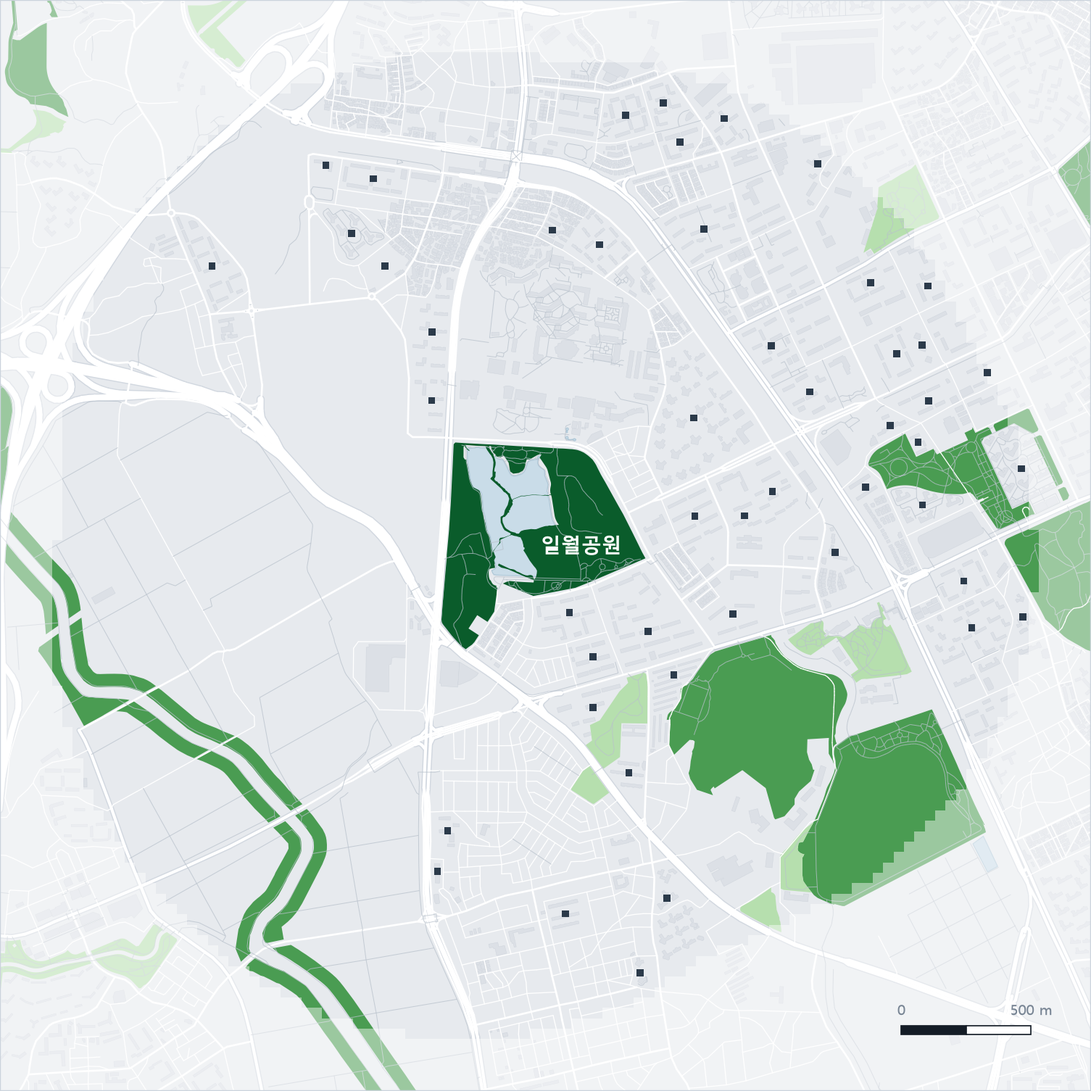
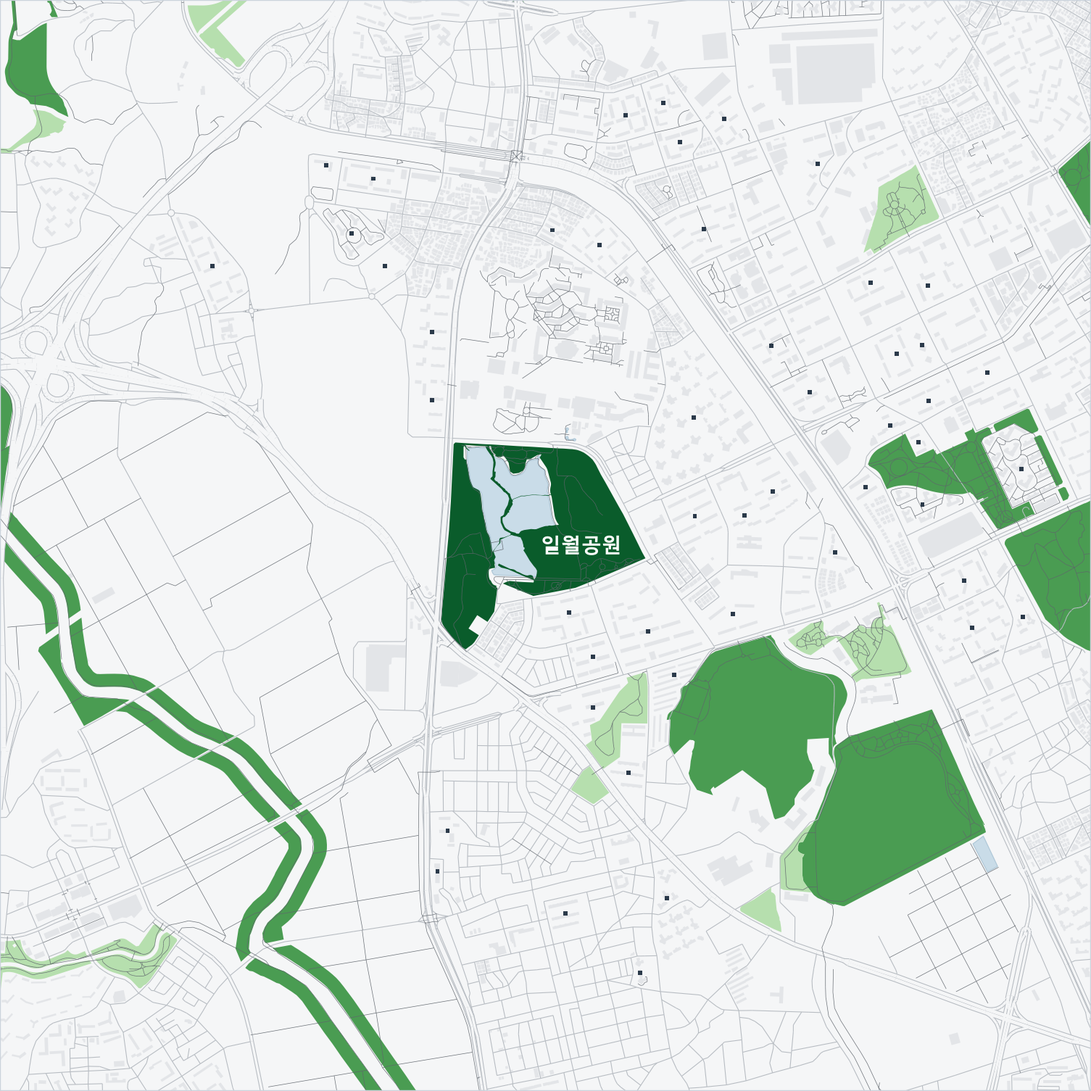
공원 자본화 보고서: 동탄2 북부 진출입로 현장 확정 · 지도 가는 선 양식 · 표 12 구역 열 폭
- 청계중앙공원 진출입로를 현장 촬영 4곳으로, 동탄여울공원을 동서남북 4곳으로 교체 (진출입로 42곳)
- 동탄2 북부 −0.057*** (p=0.008); 구역 더미를 넣으면 −0.038 (p=0.12)로 약해짐을 함께 보고
- 지도: 가는 회색 선 양식, 진출입로 사각형, 학교·단지 기호 축소, 축척 제거, 기본 지도에는 분석 범위 표시 없음
- 표 12 '구역' 열 최소 폭 지정(labelWidth)

diff --git a/content/reports/park-capitalization.ts b/content/reports/park-capitalization.ts
@@ -3,7 +3,7 @@
 
 export type StatCell = { v: string; t?: string; muted?: boolean }
 export type StatRow = { label: string; cells: StatCell[]; strong?: boolean; fit?: boolean }
-export type StatTable = { caption: string; head: string[]; rows: StatRow[]; note?: string }
+export type StatTable = { caption: string; head: string[]; rows: StatRow[]; note?: string; labelWidth?: string }
 
 export const REGION_KEYS = ["ds", "dn", "d1", "gg", "iw"] as const
 export type RegionKey = (typeof REGION_KEYS)[number]
@@ -18,7 +18,7 @@ export const parkCapMeta = {
 export const parkCapVerdict = {
   lead: "대표공원 거리는 다섯 구역 모두에서 1~5% 수준으로 유의한 음(−)의 관계를 보인다. 거리가 절반이면 84㎡ 기준 약 2,800만~4,600만원이다. 달라지는 것은 효과의 크기가 아니라 경로다.",
   body:
-    "헤도닉 모형은 단지 가격의 77~93%를 설명하고, 대표공원 거리가 단독으로 설명하는 몫은 0.95~2.25%p다. 탄력성은 −0.058(동탄2 북부)에서 −0.093(일월)까지 좁은 범위에 모인다. 그러나 효과가 들어오는 길은 도시구조에 따라 갈린다 — 공원이 생활권 한가운데 있거나 상업 축과 함께 계획된 동탄2 남부(54%)와 동탄1(44%)에서만 효과의 상당 부분이 상권을 거치고, 역이 상권을 만든 동탄2 북부, 기성 주변부가 섞인 광교, 구도심을 따라 상권이 형성된 일월에서는 직접효과로만 남는다.",
+    "헤도닉 모형은 단지 가격의 77~93%를 설명하고, 대표공원 거리가 단독으로 설명하는 몫은 0.91~2.25%p다. 탄력성은 −0.057(동탄2 북부)에서 −0.093(일월)까지 좁은 범위에 모인다. 그러나 효과가 들어오는 길은 도시구조에 따라 갈린다 — 공원이 생활권 한가운데 있거나 상업 축과 함께 계획된 동탄2 남부(54%)와 동탄1(44%)에서만 효과의 상당 부분이 상권을 거치고, 역이 상권을 만든 동탄2 북부, 기성 주변부가 섞인 광교, 구도심을 따라 상권이 형성된 일월에서는 직접효과로만 남는다.",
   points: [
     { k: "동탄2 남부", v: "−0.062***", note: "상권 경유 54% · 거리 절반 시 84㎡ +2,762만원" },
     { k: "광교", v: "−0.087***", note: "상권을 거치지 않는 직접효과 · +4,579만원" },
@@ -43,15 +43,15 @@ export const parkCapFindings = [
   },
   {
     label: "그중 공원이 설명하는 몫",
-    value: "ΔR² 0.95~2.25%p",
+    value: "ΔR² 0.91~2.25%p",
     accent: true,
-    note: "대표공원 거리를 모형에서 빼면 결정계수가 떨어지는 폭이다. 일월 2.25, 광교 2.14, 동탄2 남부 1.12, 동탄2 북부 1.10, 동탄1 0.95%p. 다른 변수로 설명되지 않는 부분 중 공원이 설명하는 몫(부분 R²)은 일월 24%, 동탄2 남부 17%, 동탄1 13%, 북부 13%, 광교 10%다.",
+    note: "대표공원 거리를 모형에서 빼면 결정계수가 떨어지는 폭이다. 일월 2.25, 광교 2.14, 동탄2 남부 1.12, 동탄1 0.95, 동탄2 북부 0.91%p. 다른 변수로 설명되지 않는 부분 중 공원이 설명하는 몫(부분 R²)은 일월 24%, 동탄2 남부 17%, 동탄1 13%, 북부 11%, 광교 10%다.",
   },
   {
     label: "거리 절반의 값",
     value: "+2,762~4,579만원",
     accent: true,
-    note: "공원 진출입로까지의 거리가 절반이 될 때 84㎡ 기준 가격 변화다 — 광교 +4,579만원, 동탄2 북부 +3,543만원, 일월 +3,551만원, 동탄1 +2,845만원, 동탄2 남부 +2,762만원. 다섯 구역 모두 95% 구간이 0을 벗어난다.",
+    note: "공원 진출입로까지의 거리가 절반이 될 때 84㎡ 기준 가격 변화다 — 광교 +4,579만원, 일월 +3,551만원, 동탄2 북부 +3,492만원, 동탄1 +2,845만원, 동탄2 남부 +2,762만원. 다섯 구역 모두 95% 구간이 0을 벗어난다.",
   },
   {
     label: "효과의 경로는 배치가 정한다",
@@ -65,12 +65,12 @@ export const parkCapHeadlineTable: StatTable = {
   head: ["구역", "대표공원", "계수(탄력성)", "p값", "ΔR²", "부분 R²", "거리 절반 시 (84㎡)"],
   rows: [
     { label: "동탄2 남부", strong: true, cells: [{ v: "동탄호수공원 44.5ha" }, { v: "−0.062***" }, { v: "0.005" }, { v: "+0.0112" }, { v: "0.165" }, { v: "+2,762만원" }] },
-    { label: "동탄2 북부", strong: true, cells: [{ v: "동탄여울공원 29.4ha + 청계중앙공원 21.3ha" }, { v: "−0.058**" }, { v: "0.016" }, { v: "+0.0110" }, { v: "0.127" }, { v: "+3,543만원" }] },
+    { label: "동탄2 북부", strong: true, cells: [{ v: "동탄여울공원 29.4ha + 청계중앙공원 21.3ha" }, { v: "−0.057***" }, { v: "0.008" }, { v: "+0.0091" }, { v: "0.106" }, { v: "+3,492만원" }] },
     { label: "동탄1", strong: true, cells: [{ v: "동탄센트럴파크 36.8ha" }, { v: "−0.082***" }, { v: "0.003" }, { v: "+0.0095" }, { v: "0.133" }, { v: "+2,845만원" }] },
     { label: "광교", strong: true, cells: [{ v: "광교호수공원 132.8ha" }, { v: "−0.087***" }, { v: "0.003" }, { v: "+0.0214" }, { v: "0.100" }, { v: "+4,579만원" }] },
     { label: "일월저수지 일대", strong: true, cells: [{ v: "일월공원 28.1ha" }, { v: "−0.093***" }, { v: "0.001" }, { v: "+0.0225" }, { v: "0.241" }, { v: "+3,551만원" }] },
   ],
-  note: "계수는 이중로그 모형의 탄력성이다 — '거리가 1% 멀어지면 ㎡당 가격이 몇 % 낮은가'. ΔR²는 이 변수를 모형에서 뺐을 때 결정계수가 떨어지는 폭이고, 부분 R²는 다른 변수로 설명되지 않는 부분 중 공원이 설명하는 몫이다. 거리 절반 값은 exp(γ·ln 0.5) − 1에 평균 단가와 84㎡를 곱했다. 동탄2 북부는 대표공원을 두 공원으로 정의한 값이고, 여울공원만 쓰면 +0.045(p=0.08)로 부호가 바뀐다(표 8). *** p<0.01 · ** p<0.05 · * p<0.10.",
+  note: "계수는 이중로그 모형의 탄력성이다 — '거리가 1% 멀어지면 ㎡당 가격이 몇 % 낮은가'. ΔR²는 이 변수를 모형에서 뺐을 때 결정계수가 떨어지는 폭이고, 부분 R²는 다른 변수로 설명되지 않는 부분 중 공원이 설명하는 몫이다. 거리 절반 값은 exp(γ·ln 0.5) − 1에 평균 단가와 84㎡를 곱했다. 동탄2 북부는 대표공원을 두 공원으로 정의한 값이고, 여울공원만 쓰면 +0.026(p=0.38)으로 유의하지 않다(표 8). *** p<0.01 · ** p<0.05 · * p<0.10.",
 }
 
 export const parkCapHexMaps = [
@@ -108,12 +108,12 @@ export const parkCapStatNotes = [
   {
     tag: "시장 단층",
     title: "링은 다른 시장을 끌어들인다 — 지구 밖은 더미로 분리한다",
-    body: "공원의 영향권은 행정 경계에서 멈추지 않으므로 택지지구 밖 단지도 대표공원 경계 2km(일월은 공원이 작아 1.5km) 안이면 표본에 넣는다. 그러나 지구 밖은 가격대가 다른 시장이다. 동탄2 남부에는 오산시 단지 6개(㎡당 248~543만원, 남부 평균 747만원)가 들어와, 택지지구 밖 더미가 없으면 공원 계수가 −0.137까지 부푼다(더미를 넣으면 −0.062, 더미 −0.50). 동탄2 북부는 지구 밖이 1개뿐이라 더미를 넣지 않는다 — 한 단지 전용 더미는 그 단지를 지우는 것과 같고, 넣거나 빼도 공원 계수는 −0.055로 거의 같다.",
+    body: "공원의 영향권은 행정 경계에서 멈추지 않으므로 택지지구 밖 단지도 대표공원 경계 2km(일월은 공원이 작아 1.5km) 안이면 표본에 넣는다. 그러나 지구 밖은 가격대가 다른 시장이다. 동탄2 남부에는 오산시 단지 6개(㎡당 248~543만원, 남부 평균 747만원)가 들어와, 택지지구 밖 더미가 없으면 공원 계수가 −0.137까지 부푼다(더미를 넣으면 −0.062, 더미 −0.50). 동탄2 북부는 지구 밖이 1개뿐이라 더미를 넣지 않는다 — 한 단지 전용 더미는 그 단지를 지우는 것과 같다. 다만 그 단지(20년 된 동탄역 신미주)를 빼면 공원 계수가 −0.057에서 −0.040(p=0.07)으로 약해져 북부 결과는 이 한 단지에도 민감하다.",
   },
   {
     tag: "거리 정의",
     title: "공원 경계가 아니라 주요 진출입로까지 잰다",
-    body: "폴리곤 경계까지의 최단거리로 재면 실제로는 들어갈 수 없는 사면·옹벽까지 접근 지점으로 세게 된다. 그래서 사람이 실제로 드나드는 주요 진출입로까지 잰다(46곳). 보행로가 25m 안에 있는 둘레 구간을 따라 규칙으로 뽑되, 동탄센트럴파크는 주말 낮 12시 현장 조사로 확정한 6곳을, 청계중앙공원은 동서남북 한 곳씩 지정한 4곳을 쓴다. 경계거리로 바꿔 끼우면 동탄1의 계수가 −0.082에서 −0.024(비유의)로 무너져 선형 공원에서는 진출입로의 정의가 결정적이다. 나머지 네 구역은 경계거리로도 유의하다.",
+    body: "폴리곤 경계까지의 최단거리로 재면 실제로는 들어갈 수 없는 사면·옹벽까지 접근 지점으로 세게 된다. 그래서 사람이 실제로 드나드는 주요 진출입로까지 잰다(42곳). 보행로가 25m 안에 있는 둘레 구간을 따라 규칙으로 뽑되, 동탄센트럴파크(6곳)와 청계중앙공원(4곳)은 현장 조사로 확정한 점을, 동탄여울공원은 자동 추출 점 중 동서남북 가장 바깥의 4곳을 쓴다. 경계거리로 바꿔 끼우면 동탄1의 계수가 −0.082에서 −0.024(비유의)로 무너져 선형 공원에서는 진출입로의 정의가 결정적이다. 나머지 네 구역은 경계거리로도 유의하다.",
   },
   {
     tag: "함수형",
@@ -148,14 +148,14 @@ export const parkCapRegions = [
     verdict: "확인됨",
     lead: "역이 가격을 지배하고, 공원은 그 안의 2차 요인이다.",
     body:
-      "대표공원을 여울공원(29.4ha)과 청계중앙공원(21.3ha)으로 정의하면 탄력성 −0.058(p=0.016)로 5% 수준에서 유의하고, 공간오차모형에서도 −0.060(p=0.004)이다. 거리가 절반이면 84㎡ 기준 약 3,543만원 높다. 상권 매개는 성립하지 않는다(a경로 비유의).",
+      "대표공원을 여울공원(29.4ha)과 청계중앙공원(21.3ha)으로 정의하면 탄력성 −0.057(p=0.008)로 1% 수준에서 유의하고, 공간오차모형에서도 −0.057(p=0.003)이다. 거리가 절반이면 84㎡ 기준 약 3,492만원 높다. 상권 매개는 성립하지 않는다(a경로 비유의).",
     why:
-      "북부의 중심은 동탄역이다. 대중교통 거리의 표준화 계수(−0.57)가 모든 구역·모든 변수 중 가장 크고, 상권도 역을 따라 형성되어 공원과는 무관하다. 생활권 가장자리의 하천형 여울공원만으로는 효과가 잡히지 않고, 시범단지 한가운데의 청계중앙공원을 함께 보아야 드러난다 — 규모보다 배치가 중요하다는 해석과 맞는다. 입주 시기가 거의 같아(연령 표준편차 2.8년) 건축연령은 유의하지 않다.",
+      "북부의 중심은 동탄역이다. 대중교통 거리의 표준화 계수(−0.53)가 모든 구역·모든 변수 중 가장 크고, 상권도 역을 따라 형성되어 공원과는 무관하다. 생활권 가장자리의 하천형 여울공원만으로는 효과가 잡히지 않고, 시범단지 한가운데의 청계중앙공원을 함께 보아야 드러난다 — 규모보다 배치가 중요하다는 해석과 맞는다. 입주 시기가 거의 같아(연령 표준편차 2.8년) 건축연령은 10% 수준에 그친다.",
     caution:
-      "여울공원만 쓰면 계수가 +0.045(p=0.08)로 부호가 바뀐다. 대표공원을 어떻게 정의하느냐에 결과가 민감하다는 점이 가장 큰 한계다. 지구 밖 단지가 1개뿐이라 택지지구 밖 더미는 넣지 않았다.",
-    coef: "−0.0575", t: "t=−2.41", p: "0.016",
-    adjr2: "0.904", vif: "4.45", dist: "평균 531m · 75~1,604m",
-    price: "㎡당 1,037만원 · 연령 8.0년", money: "+3,543만원 (84㎡)", moneyCI: "656 ~ 6,525만원",
+      "여울공원만 쓰면 계수가 +0.026(p=0.38)으로 유의하지 않고, 경부고속도로·순환대로 구역 더미를 넣으면 −0.038(p=0.12)로 약해진다. 대표공원의 정의와 구역 처리에 결과가 민감하다는 점이 가장 큰 한계다.",
+    coef: "−0.0567", t: "t=−2.66", p: "0.008",
+    adjr2: "0.902", vif: "5.70", dist: "평균 725m · 59~1,892m",
+    price: "㎡당 1,037만원 · 연령 8.0년", money: "+3,492만원 (84㎡)", moneyCI: "902 ~ 6,159만원",
   },
   {
     key: "d1" as RegionKey,
@@ -214,21 +214,21 @@ export const parkCapFullCoefTable: StatTable = {
   caption: "표 2 · 구역별 헤도닉 회귀 — 전체 계수",
   head: ["변수", "동탄2 남부", "동탄2 북부", "동탄1", "광교", "일월저수지 일대"],
   rows: [
-    { label: "건축연령", cells: [{ v: "−0.029***", t: "(−9.03)" }, { v: "−0.009", t: "(−1.17)", muted: true }, { v: "−0.025***", t: "(−8.25)" }, { v: "−0.012***", t: "(−3.25)" }, { v: "−0.015***", t: "(−8.04)" }] },
-    { label: "세대수(log)", cells: [{ v: "+0.162***", t: "(+3.48)" }, { v: "+0.050", t: "(+1.19)", muted: true }, { v: "+0.066***", t: "(+2.81)" }, { v: "+0.110***", t: "(+3.62)" }, { v: "+0.122***", t: "(+6.05)" }] },
-    { label: "1군 브랜드", cells: [{ v: "+0.060**", t: "(+2.06)" }, { v: "−0.007", t: "(−0.18)", muted: true }, { v: "+0.048*", t: "(+1.76)" }, { v: "+0.094**", t: "(+2.21)" }, { v: "+0.028", t: "(+0.39)", muted: true }] },
-    { label: "세대당 주차대수", cells: [{ v: "+0.305**", t: "(+2.51)" }, { v: "+0.186**", t: "(+1.98)" }, { v: "+0.060", t: "(+0.98)", muted: true }, { v: "+0.054", t: "(+0.66)", muted: true }, { v: "+0.072", t: "(+1.61)", muted: true }] },
-    { label: "전용면적(log)", cells: [{ v: "−0.614***", t: "(−2.80)" }, { v: "−0.366**", t: "(−2.46)" }, { v: "−0.254***", t: "(−3.25)" }, { v: "−0.059", t: "(−0.34)", muted: true }, { v: "−0.260***", t: "(−3.22)" }] },
-    { label: "대표공원 거리(log)", strong: true, cells: [{ v: "−0.062***", t: "(−2.78)" }, { v: "−0.058**", t: "(−2.41)" }, { v: "−0.082***", t: "(−2.93)" }, { v: "−0.087***", t: "(−2.95)" }, { v: "−0.093***", t: "(−3.34)" }] },
-    { label: "중규모공원 거리(log)", cells: [{ v: "+0.042", t: "(+1.13)", muted: true }, { v: "+0.120***", t: "(+3.50)" }, { v: "−0.070*", t: "(−1.68)" }, { v: "+0.057", t: "(+1.43)", muted: true }, { v: "−0.077**", t: "(−2.12)" }] },
-    { label: "대중교통 거리(log)", cells: [{ v: "—" }, { v: "−0.238***", t: "(−5.68)" }, { v: "−0.230***", t: "(−3.56)" }, { v: "−0.190***", t: "(−6.24)" }, { v: "−0.145***", t: "(−4.16)" }] },
-    { label: "생활상권 중력지수(log)", cells: [{ v: "+0.354***", t: "(+4.83)" }, { v: "+0.219***", t: "(+2.80)" }, { v: "+0.348***", t: "(+4.30)" }, { v: "−0.030", t: "(−0.55)", muted: true }, { v: "+0.370***", t: "(+4.13)" }] },
-    { label: "초등학교 5분", cells: [{ v: "−0.068", t: "(−1.59)", muted: true }, { v: "+0.027", t: "(+0.77)", muted: true }, { v: "+0.046**", t: "(+2.20)" }, { v: "+0.060", t: "(+1.33)", muted: true }, { v: "+0.023", t: "(+0.80)", muted: true }] },
+    { label: "건축연령", cells: [{ v: "−0.029***", t: "(−9.03)" }, { v: "−0.013*", t: "(−1.79)" }, { v: "−0.025***", t: "(−8.25)" }, { v: "−0.012***", t: "(−3.25)" }, { v: "−0.015***", t: "(−8.04)" }] },
+    { label: "세대수(log)", cells: [{ v: "+0.162***", t: "(+3.48)" }, { v: "+0.038", t: "(+1.11)", muted: true }, { v: "+0.066***", t: "(+2.81)" }, { v: "+0.110***", t: "(+3.62)" }, { v: "+0.122***", t: "(+6.05)" }] },
+    { label: "1군 브랜드", cells: [{ v: "+0.060**", t: "(+2.06)" }, { v: "−0.012", t: "(−0.31)", muted: true }, { v: "+0.048*", t: "(+1.76)" }, { v: "+0.094**", t: "(+2.21)" }, { v: "+0.028", t: "(+0.39)", muted: true }] },
+    { label: "세대당 주차대수", cells: [{ v: "+0.305**", t: "(+2.51)" }, { v: "+0.149", t: "(+1.51)", muted: true }, { v: "+0.060", t: "(+0.98)", muted: true }, { v: "+0.054", t: "(+0.66)", muted: true }, { v: "+0.072", t: "(+1.61)", muted: true }] },
+    { label: "전용면적(log)", cells: [{ v: "−0.614***", t: "(−2.80)" }, { v: "−0.316*", t: "(−1.86)" }, { v: "−0.254***", t: "(−3.25)" }, { v: "−0.059", t: "(−0.34)", muted: true }, { v: "−0.260***", t: "(−3.22)" }] },
+    { label: "대표공원 거리(log)", strong: true, cells: [{ v: "−0.062***", t: "(−2.78)" }, { v: "−0.057***", t: "(−2.66)" }, { v: "−0.082***", t: "(−2.93)" }, { v: "−0.087***", t: "(−2.95)" }, { v: "−0.093***", t: "(−3.34)" }] },
+    { label: "중규모공원 거리(log)", cells: [{ v: "+0.042", t: "(+1.13)", muted: true }, { v: "+0.140***", t: "(+4.87)" }, { v: "−0.070*", t: "(−1.68)" }, { v: "+0.057", t: "(+1.43)", muted: true }, { v: "−0.077**", t: "(−2.12)" }] },
+    { label: "대중교통 거리(log)", cells: [{ v: "—" }, { v: "−0.221***", t: "(−4.83)" }, { v: "−0.230***", t: "(−3.56)" }, { v: "−0.190***", t: "(−6.24)" }, { v: "−0.145***", t: "(−4.16)" }] },
+    { label: "생활상권 중력지수(log)", cells: [{ v: "+0.354***", t: "(+4.83)" }, { v: "+0.236***", t: "(+2.86)" }, { v: "+0.348***", t: "(+4.30)" }, { v: "−0.030", t: "(−0.55)", muted: true }, { v: "+0.370***", t: "(+4.13)" }] },
+    { label: "초등학교 5분", cells: [{ v: "−0.068", t: "(−1.59)", muted: true }, { v: "+0.037", t: "(+1.06)", muted: true }, { v: "+0.046**", t: "(+2.20)" }, { v: "+0.060", t: "(+1.33)", muted: true }, { v: "+0.023", t: "(+0.80)", muted: true }] },
     { label: "택지지구 밖", cells: [{ v: "−0.497***", t: "(−7.47)" }, { v: "—" }, { v: "−0.066", t: "(−1.42)", muted: true }, { v: "−0.133**", t: "(−2.08)" }, { v: "−0.090**", t: "(−2.18)" }] },
     { label: "n (지구 밖)", fit: true, cells: [{ v: "39 (6)" }, { v: "47 (1)" }, { v: "66 (36)" }, { v: "77 (48)" }, { v: "48 (12)" }] },
-    { label: "수정 R²", fit: true, cells: [{ v: "0.923" }, { v: "0.904" }, { v: "0.925" }, { v: "0.773" }, { v: "0.908" }] },
-    { label: "F (p)", fit: true, cells: [{ v: "115.2 (0.000)" }, { v: "77.4 (0.000)" }, { v: "84.3 (0.000)" }, { v: "27.7 (0.000)" }, { v: "66.2 (0.000)" }] },
-    { label: "최대 VIF", fit: true, cells: [{ v: "5.60" }, { v: "4.45" }, { v: "7.33" }, { v: "4.23" }, { v: "3.70" }] },
+    { label: "수정 R²", fit: true, cells: [{ v: "0.923" }, { v: "0.902" }, { v: "0.925" }, { v: "0.773" }, { v: "0.908" }] },
+    { label: "F (p)", fit: true, cells: [{ v: "115.2 (0.000)" }, { v: "70.6 (0.000)" }, { v: "84.3 (0.000)" }, { v: "27.7 (0.000)" }, { v: "66.2 (0.000)" }] },
+    { label: "최대 VIF", fit: true, cells: [{ v: "5.60" }, { v: "5.70" }, { v: "7.33" }, { v: "4.23" }, { v: "3.70" }] },
   ],
   note: "괄호 안은 이분산-로버스트(HC1) t값. 종속변수는 층·시점 보정된 ㎡당 실거래가의 자연로그다. 대표공원 거리는 주요 진출입로까지, 중규모공원(10ha 이상) 거리는 공원 중심점까지 재고 거리 변수는 모두 자연로그를 취했다. 초등학교 5분은 최근접 초등학교까지 직선 300m(도보 약 5분) 이내 더미다. 동탄2 남부는 지하철역이 없어 대중교통 거리를 뺐고, 동탄2 북부는 지구 밖이 1개뿐이라 택지지구 밖 더미를 넣지 않았다. *** p<0.01 · ** p<0.05 · * p<0.10.",
 }
@@ -238,7 +238,7 @@ export const parkCapStdTable: StatTable = {
   head: ["구역", "1위", "2위", "3위", "대표공원 순위"],
   rows: [
     { label: "동탄2 남부", cells: [{ v: "택지지구 밖 −0.60" }, { v: "건축연령 −0.53" }, { v: "상권 +0.34" }, { v: "7위 / 10 (−0.16)" }] },
-    { label: "동탄2 북부", strong: true, cells: [{ v: "대중교통 −0.57" }, { v: "상권 +0.25" }, { v: "중규모공원 +0.22" }, { v: "4위 / 10 (−0.18)" }] },
+    { label: "동탄2 북부", strong: true, cells: [{ v: "대중교통 −0.53" }, { v: "상권 +0.27" }, { v: "중규모공원 +0.26" }, { v: "4위 / 10 (−0.18)" }] },
     { label: "동탄1", cells: [{ v: "건축연령 −0.42" }, { v: "대중교통 −0.28" }, { v: "상권 +0.24" }, { v: "4위 / 11 (−0.21)" }] },
     { label: "광교", cells: [{ v: "대중교통 −0.41" }, { v: "건축연령 −0.37" }, { v: "세대수 +0.22" }, { v: "5위 / 11 (−0.18)" }] },
     { label: "일월저수지 일대", cells: [{ v: "건축연령 −0.43" }, { v: "상권 +0.35" }, { v: "세대수 +0.31" }, { v: "5위 / 11 (−0.21)" }] },
@@ -252,11 +252,11 @@ export const parkCapMoneyTable: StatTable = {
   rows: [
     { label: "광교", strong: true, cells: [{ v: "1,275m" }, { v: "6.25만원" }, { v: "+525만원" }, { v: "+4,579만원" }, { v: "1,509 ~ 7,774" }] },
     { label: "일월저수지 일대", strong: true, cells: [{ v: "1,053m" }, { v: "5.92만원" }, { v: "+497만원" }, { v: "+3,551만원" }, { v: "1,439 ~ 5,745" }] },
-    { label: "동탄2 북부", strong: true, cells: [{ v: "459m" }, { v: "14.77만원" }, { v: "+1,241만원" }, { v: "+3,543만원" }, { v: "656 ~ 6,525" }] },
+    { label: "동탄2 북부", strong: true, cells: [{ v: "594m" }, { v: "10.90만원" }, { v: "+916만원" }, { v: "+3,492만원" }, { v: "902 ~ 6,159" }] },
     { label: "동탄1", strong: true, cells: [{ v: "1,290m" }, { v: "3.85만원" }, { v: "+323만원" }, { v: "+2,845만원" }, { v: "925 ~ 4,838" }] },
     { label: "동탄2 남부", strong: true, cells: [{ v: "1,249m" }, { v: "3.88만원" }, { v: "+326만원" }, { v: "+2,762만원" }, { v: "804 ~ 4,781" }] },
   ],
-  note: "이중로그 모형이므로 같은 100m도 가까울수록 값이 크다. 동탄2 북부는 시범단지 안의 청계중앙공원 때문에 중위거리가 459m로 짧아 100m의 값이 가장 크다. 거리 절반 시나리오는 거리 수준과 무관한 비교라 구역을 나란히 놓기에 낫다. 95% 구간은 거리 절반 시나리오의 것이며 다섯 구역 모두 0을 벗어난다.",
+  note: "이중로그 모형이므로 같은 100m도 가까울수록 값이 크다. 동탄2 북부는 시범단지 안의 청계중앙공원 때문에 중위거리가 594m로 짧아 100m의 값이 가장 크다. 거리 절반 시나리오는 거리 수준과 무관한 비교라 구역을 나란히 놓기에 낫다. 95% 구간은 거리 절반 시나리오의 것이며 다섯 구역 모두 0을 벗어난다.",
 }
 
 export const parkCapMediationTable: StatTable = {
@@ -267,7 +267,7 @@ export const parkCapMediationTable: StatTable = {
     { label: "동탄1", strong: true, cells: [{ v: "−0.146***" }, { v: "−0.082***" }, { v: "−0.186*** (0.200)" }, { v: "+0.349***" }, { v: "−0.065" }, { v: "부분매개 (44%)" }] },
     { label: "일월저수지 일대", cells: [{ v: "−0.105***" }, { v: "−0.093***" }, { v: "−0.034 (0.010)" }, { v: "+0.370***" }, { v: "−0.013" }, { v: "성립 안 함 (a 비유의)" }] },
     { label: "광교", cells: [{ v: "−0.082***" }, { v: "−0.087***" }, { v: "−0.153** (0.078)" }, { v: "−0.030" }, { v: "+0.005" }, { v: "성립 안 함 (b 비유의)" }] },
-    { label: "동탄2 북부", cells: [{ v: "−0.068***" }, { v: "−0.058**" }, { v: "−0.048 (0.022)" }, { v: "+0.219***" }, { v: "−0.011" }, { v: "성립 안 함 (a 비유의)" }] },
+    { label: "동탄2 북부", cells: [{ v: "−0.062**" }, { v: "−0.057***" }, { v: "−0.020 (0.003)" }, { v: "+0.236***" }, { v: "−0.005" }, { v: "성립 안 함 (a 비유의)" }] },
   ],
   note: "c는 상권을 넣기 전, c′는 넣은 뒤의 공원 계수이고, 선형모형이므로 c = c′ + a·b가 정확히 성립한다. a경로와 b경로가 모두 유의하고 c′가 유의하게 남으면 부분매개다. 괄호 안 비율은 총효과 중 상권을 경유하는 몫(a·b ÷ c)이다. 매개가 끊기는 이유는 구역마다 다르다 — 광교는 b가, 동탄2 북부와 일월은 a가 끊긴다.",
 }
@@ -277,7 +277,7 @@ export const parkCapSpatialTable: StatTable = {
   head: ["구역", "I (k=3)", "p", "I (k=4)", "p", "I (k=5)", "p", "판정"],
   rows: [
     { label: "동탄2 남부", strong: true, cells: [{ v: "+0.171" }, { v: "0.080" }, { v: "+0.094" }, { v: "0.223" }, { v: "+0.075" }, { v: "0.261" }, { v: "약함 (k=3, 10%)" }] },
-    { label: "동탄2 북부", cells: [{ v: "+0.060" }, { v: "0.445" }, { v: "+0.065" }, { v: "0.352" }, { v: "+0.094" }, { v: "0.164" }, { v: "없음" }] },
+    { label: "동탄2 북부", cells: [{ v: "+0.023" }, { v: "0.682" }, { v: "+0.033" }, { v: "0.567" }, { v: "+0.049" }, { v: "0.387" }, { v: "없음" }] },
     { label: "동탄1", cells: [{ v: "+0.046" }, { v: "0.536" }, { v: "−0.011" }, { v: "0.996" }, { v: "−0.009" }, { v: "0.978" }, { v: "없음" }] },
     { label: "광교", cells: [{ v: "+0.019" }, { v: "0.695" }, { v: "+0.033" }, { v: "0.548" }, { v: "+0.032" }, { v: "0.490" }, { v: "없음" }] },
     { label: "일월저수지 일대", cells: [{ v: "−0.105" }, { v: "0.392" }, { v: "−0.073" }, { v: "0.562" }, { v: "−0.103" }, { v: "0.310" }, { v: "없음" }] },
@@ -291,27 +291,27 @@ export const parkCapSemTable: StatTable = {
   rows: [
     { label: "남부 OLS (HC1)", cells: [{ v: "—" }, { v: "−0.062***" }, { v: "−2.78" }, { v: "0.005" }, { v: "—" }, { v: "—" }] },
     { label: "남부 SEM-GMM", strong: true, cells: [{ v: "k=4" }, { v: "−0.063***" }, { v: "−3.07" }, { v: "0.002" }, { v: "+0.240" }, { v: "자기상관 없음" }] },
-    { label: "북부 OLS (HC1)", cells: [{ v: "—" }, { v: "−0.058**" }, { v: "−2.41" }, { v: "0.016" }, { v: "—" }, { v: "—" }] },
-    { label: "북부 SEM-GMM", strong: true, cells: [{ v: "k=4" }, { v: "−0.060***" }, { v: "−2.87" }, { v: "0.004" }, { v: "+0.182" }, { v: "자기상관 없음" }] },
+    { label: "북부 OLS (HC1)", cells: [{ v: "—" }, { v: "−0.057***" }, { v: "−2.66" }, { v: "0.008" }, { v: "—" }, { v: "—" }] },
+    { label: "북부 SEM-GMM", strong: true, cells: [{ v: "k=4" }, { v: "−0.057***" }, { v: "−2.99" }, { v: "0.003" }, { v: "+0.105" }, { v: "자기상관 없음" }] },
     { label: "광교 OLS (HC1)", cells: [{ v: "—" }, { v: "−0.087***" }, { v: "−2.95" }, { v: "0.003" }, { v: "—" }, { v: "—" }] },
     { label: "광교 SEM-GMM", strong: true, cells: [{ v: "k=4" }, { v: "−0.085***" }, { v: "−3.02" }, { v: "0.003" }, { v: "+0.118" }, { v: "자기상관 없음" }] },
     { label: "일월 OLS (HC1)", cells: [{ v: "—" }, { v: "−0.093***" }, { v: "−3.34" }, { v: "0.001" }, { v: "—" }, { v: "—" }] },
     { label: "일월 SEM-GMM", strong: true, cells: [{ v: "k=4" }, { v: "−0.092***" }, { v: "−4.31" }, { v: "<0.001" }, { v: "−0.345" }, { v: "자기상관 없음" }] },
   ],
-  note: "자기상관이 거의 남지 않았지만 확인 삼아 네 구역을 다시 추정했다. λ는 어디서도 유의하지 않고, 공원 계수는 크기도 유의성도 그대로다. ML 추정도 같다(남부 −0.064, 북부 −0.060, 광교 −0.083, 일월 −0.092, 모두 5% 이하). k=3·5에서도 결론이 같다.",
+  note: "자기상관이 거의 남지 않았지만 확인 삼아 네 구역을 다시 추정했다. λ는 어디서도 유의하지 않고, 공원 계수는 크기도 유의성도 그대로다. ML 추정도 같다(남부 −0.064, 북부 −0.057, 광교 −0.083, 일월 −0.092, 모두 5% 이하). k=3·5에서도 결론이 같다.",
 }
 
 export const parkCapNorthTable: StatTable = {
   caption: "표 8 · 동탄2 북부 — 대표공원과 구역을 어떻게 볼 것인가",
   head: ["사양", "n", "대표공원 계수", "p", "수정 R²", "AIC", "비고"],
   rows: [
-    { label: "A. 여울 + 청계, 구역 더미 없음 (본 사양)", strong: true, cells: [{ v: "47" }, { v: "−0.058**" }, { v: "0.016" }, { v: "0.904" }, { v: "−97.9" }, { v: "—" }] },
-    { label: "B. A + 구역 더미 2개", cells: [{ v: "47" }, { v: "−0.062***" }, { v: "0.003" }, { v: "0.920" }, { v: "−105.4" }, { v: "경부 서측 −0.084*** · 순환대로 밖 −0.091***" }] },
-    { label: "B′. A + 순환대로 밖 더미 1개", cells: [{ v: "47" }, { v: "−0.049**" }, { v: "0.037" }, { v: "0.908" }, { v: "−99.5" }, { v: "순환대로 밖 −0.058*" }] },
-    { label: "C. B + 구역 × 공원거리", cells: [{ v: "47" }, { v: "−0.049*" }, { v: "0.064" }, { v: "0.916" }, { v: "−101.9" }, { v: "교차항 모두 비유의" }] },
-    { label: "D. 대표공원 = 여울공원만", cells: [{ v: "47" }, { v: "+0.045*", muted: true }, { v: "0.084", muted: true }, { v: "—" }, { v: "—" }, { v: "부호가 바뀐다" }] },
+    { label: "A. 여울 + 청계, 구역 더미 없음 (본 사양)", strong: true, cells: [{ v: "47" }, { v: "−0.057***" }, { v: "0.008" }, { v: "0.902" }, { v: "−96.7" }, { v: "—" }] },
+    { label: "B. A + 구역 더미 2개", cells: [{ v: "47" }, { v: "−0.038", muted: true }, { v: "0.123", muted: true }, { v: "0.909" }, { v: "−99.1" }, { v: "경부 서측 −0.063* · 순환대로 밖 −0.077**" }] },
+    { label: "B′. A + 순환대로 밖 더미 1개", cells: [{ v: "47" }, { v: "−0.039*" }, { v: "0.091" }, { v: "0.903" }, { v: "−96.7" }, { v: "순환대로 밖 −0.049" }] },
+    { label: "C. B + 구역 × 공원거리", cells: [{ v: "47" }, { v: "−0.034", muted: true }, { v: "0.157", muted: true }, { v: "0.905" }, { v: "−96.2" }, { v: "교차항 모두 비유의" }] },
+    { label: "D. 대표공원 = 여울공원만", cells: [{ v: "47" }, { v: "+0.026", muted: true }, { v: "0.377", muted: true }, { v: "—" }, { v: "—" }, { v: "유의하지 않다" }] },
   ],
-  note: "구역 더미를 넣든 빼든 공원 계수는 −0.049~−0.062로 유의하다 — 경계를 어디에 긋느냐가 임의적일 수 있어 본 사양에는 넣지 않았다. 결과를 가르는 것은 구역이 아니라 대표공원의 정의다. 생활권 가장자리의 여울공원만으로는 효과가 잡히지 않고, 시범단지 한가운데의 청계중앙공원(진출입로 동서남북 4곳)을 함께 보아야 드러난다.",
+  note: "구역 더미를 넣으면 공원 계수가 −0.034~−0.039로 줄고 유의성이 10% 수준 이하로 약해진다 — 순환대로 밖과 경부 서측의 가격 단층이 공원 거리와 일부 겹친다. 경계를 어디에 긋느냐가 임의적일 수 있어 본 사양에는 넣지 않았지만, 북부의 결과는 이 처리에 민감하다. 대표공원의 정의도 결정적이다 — 생활권 가장자리의 여울공원만으로는 효과가 잡히지 않고, 시범단지 한가운데의 청계중앙공원(현장 확인 진출입로 4곳)을 함께 보아야 드러난다.",
 }
 
 export const parkCapGwanggyoTable: StatTable = {
@@ -329,7 +329,7 @@ export const parkCapSignalTable: StatTable = {
   caption: "표 10 · 공원 신호는 어디서 가장 불안한가",
   head: ["구역", "단순상관 r (p)", "통제 후 계수 (p)", "공간모형 p", "상권 매개", "주의할 점"],
   rows: [
-    { label: "동탄2 북부", strong: true, cells: [{ v: "−0.66 (<0.001)" }, { v: "−0.058** (0.016)" }, { v: "0.004" }, { v: "성립 안 함" }, { v: "대표공원 정의에 민감하다 — 여울공원만 쓰면 +0.045 (p=0.08)" }] },
+    { label: "동탄2 북부", strong: true, cells: [{ v: "−0.71 (<0.001)" }, { v: "−0.057*** (0.008)" }, { v: "0.003" }, { v: "성립 안 함" }, { v: "대표공원 정의와 구역 처리에 민감하다 — 여울공원만 +0.026, 구역 더미를 넣으면 −0.038 (p=0.12)" }] },
     { label: "동탄1", strong: true, cells: [{ v: "−0.70 (<0.001)" }, { v: "−0.082*** (0.003)" }, { v: "—" }, { v: "부분매개 (44%)" }, { v: "진출입로 정의에 민감하다 — 경계거리로 재면 −0.024 (p=0.18)" }] },
     { label: "일월저수지 일대", cells: [{ v: "+0.10 (0.497)", muted: true }, { v: "−0.093*** (0.001)" }, { v: "<0.001" }, { v: "성립 안 함" }, { v: "통제 전에는 보이지 않는다 — 공원 가까이 노후 단지가 몰려 건축연령을 통제해야 드러난다" }] },
     { label: "광교", cells: [{ v: "−0.42 (<0.001)" }, { v: "−0.087*** (0.003)" }, { v: "0.003" }, { v: "성립 안 함" }, { v: "지구 밖 처리에 따라 −0.087~−0.162" }] },
@@ -343,7 +343,7 @@ export const parkCapFormTable: StatTable = {
   head: ["구역", "이중로그 γ", "선형-로그 β (만원/㎡)", "84㎡ 거리 절반 (이중 / 선형)", "Box-Cox λ (95%)", "자료에 더 맞는 형태"],
   rows: [
     { label: "동탄2 남부", cells: [{ v: "−0.062***" }, { v: "−57.2***" }, { v: "2,762 / 3,333만원" }, { v: "0.24 (−0.31~0.97)" }, { v: "로그" }] },
-    { label: "동탄2 북부", cells: [{ v: "−0.058**" }, { v: "−47.6*" }, { v: "3,543 / 2,770만원" }, { v: "0.80 (0.12~1.40)" }, { v: "선형" }] },
+    { label: "동탄2 북부", cells: [{ v: "−0.057***" }, { v: "−36.6*" }, { v: "3,492 / 2,132만원" }, { v: "0.73 (0.03~1.37)" }, { v: "선형" }] },
     { label: "동탄1", cells: [{ v: "−0.082***" }, { v: "−63.1***" }, { v: "2,845 / 3,674만원" }, { v: "−0.37 (−0.90~0.18)" }, { v: "로그" }] },
     { label: "광교", cells: [{ v: "−0.087***" }, { v: "−103.9***" }, { v: "4,579 / 6,048만원" }, { v: "0.60 (0.17~1.01)" }, { v: "선형" }] },
     { label: "일월저수지 일대", cells: [{ v: "−0.093***" }, { v: "−62.1***" }, { v: "3,551 / 3,614만원" }, { v: "−0.39 (−0.89~0.07)" }, { v: "로그" }] },
@@ -353,6 +353,7 @@ export const parkCapFormTable: StatTable = {
 
 export const parkCapStructureTable: StatTable = {
   caption: "표 12 · 도시구조에 따른 해석",
+  labelWidth: "8.5rem",
   head: ["구역", "도시 성격 · 공원 배치", "상권은 무엇을 따라 생겼나", "공원 효과의 경로", "가격을 지배하는 요인"],
   rows: [
     { label: "동탄2 남부", strong: true, cells: [{ v: "신도시 · 공원이 생활권 중심" }, { v: "호수공원 (상권 가장 작음)" }, { v: "상권 경유 54%" }, { v: "지구 안팎 · 연령" }] },
@@ -366,12 +367,12 @@ export const parkCapStructureTable: StatTable = {
 
 export const parkCapConclusion = {
   headline:
-    "대표공원 거리는 다섯 구역 모두에서 아파트 가격과 유의한 음(−)의 관계를 보이고, 탄력성은 −0.058~−0.093으로 비슷하다. 구역마다 갈리는 것은 효과의 크기가 아니라 경로다 — 공원이 생활권 안에 있거나 상업 축과 함께 계획된 곳에서만 효과가 상권을 거치고, 그 밖에서는 공원이 직접 자본화된다.",
+    "대표공원 거리는 다섯 구역 모두에서 아파트 가격과 유의한 음(−)의 관계를 보이고, 탄력성은 −0.057~−0.093으로 비슷하다. 구역마다 갈리는 것은 효과의 크기가 아니라 경로다 — 공원이 생활권 안에 있거나 상업 축과 함께 계획된 곳에서만 효과가 상권을 거치고, 그 밖에서는 공원이 직접 자본화된다.",
   grounds: [
     {
       title: "공원 효과는 작지만 어디서나 일관된다",
       body:
-        "헤도닉 모형은 단지 가격의 77~93%를 설명하고, 대표공원 거리를 빼면 R²가 일월 2.25%p, 광교 2.14%p, 동탄2 남부 1.12%p, 북부 1.10%p, 동탄1 0.95%p 떨어진다. 거리가 절반이면 84㎡ 기준 2,762만~4,579만원이고 다섯 구역 모두 95% 구간이 0을 벗어난다. 표준화 계수로는 어느 구역에서도 1~3위에 들지 못한다 — 공원은 가격의 주된 결정요인이 아니라 그 위에 얹히는 몫이다.",
+        "헤도닉 모형은 단지 가격의 77~93%를 설명하고, 대표공원 거리를 빼면 R²가 일월 2.25%p, 광교 2.14%p, 동탄2 남부 1.12%p, 동탄1 0.95%p, 북부 0.91%p 떨어진다. 거리가 절반이면 84㎡ 기준 2,762만~4,579만원이고 다섯 구역 모두 95% 구간이 0을 벗어난다. 표준화 계수로는 어느 구역에서도 1~3위에 들지 못한다 — 공원은 가격의 주된 결정요인이 아니라 그 위에 얹히는 몫이다.",
     },
     {
       title: "공원의 배치가 상권과의 결합을 정한다",
@@ -395,7 +396,7 @@ export const parkCapConclusion = {
     },
   ],
   robustness:
-    "다섯 가지를 따로 확인했다. 첫째, 공간자기상관 — 잔차에 남은 자기상관이 거의 없고, 공간오차모형으로 다시 추정해도 네 구역 모두 계수와 유의성이 그대로다(표 7). 둘째, 함수형 — 가격을 그대로 둔 선형-로그에서도 다섯 구역의 방향이 같고 북부만 10% 수준으로 약해진다(표 11). 셋째, 거리 정의 — 공원 경계까지로 바꾸면 동탄1만 무너지고(−0.024) 네 구역은 유의하다. 넷째, 표본 범위 — 진출입로 1.5km로 좁혀도 다섯 구역 모두 유의하고 광교(−0.119)·남부(−0.096)는 계수가 커진다. 다섯째, 구역 더미 — 동탄2 북부에 구역 더미를 넣어도 −0.049~−0.062로 유의하다(표 8).",
+    "다섯 가지를 따로 확인했다. 첫째, 공간자기상관 — 잔차에 남은 자기상관이 거의 없고, 공간오차모형으로 다시 추정해도 네 구역 모두 계수와 유의성이 그대로다(표 7). 둘째, 함수형 — 가격을 그대로 둔 선형-로그에서도 다섯 구역의 방향이 같고 북부만 10% 수준으로 약해진다(표 11). 셋째, 거리 정의 — 공원 경계까지로 바꾸면 동탄1만 무너지고(−0.024) 네 구역은 유의하다. 넷째, 표본 범위 — 진출입로 1.5km로 좁혀도 다섯 구역 모두 유의하고 광교(−0.119)·남부(−0.096)는 계수가 커진다. 다섯째, 구역 더미 — 동탄2 북부에 구역 더미를 넣으면 −0.034~−0.039로 약해져, 북부 결과는 구역 처리에 민감하다(표 8).",
   contribution:
     "이 보고서의 기여는 '공원이 집값을 올린다'는 확인이 아니라, 같은 크기의 공원 효과가 도시구조에 따라 서로 다른 경로로 들어온다는 점을 같은 지구 안의 대조로 보인 데 있다. 1인당 공원면적처럼 규모만 세는 지표는 가장 작은 일월공원의 가장 큰 탄력성도, 동탄2 남부와 북부의 경로 차이도 설명하지 못한다. 지구단위계획 단계에서 대형공원을 생활권의 초점에 두고 상업 축과 겹칠 것인지, 가장자리 녹지로 둘 것인지가 실질적 차이를 만든다.",
   questions: [
@@ -407,7 +408,7 @@ export const parkCapConclusion = {
     {
       q: "대표공원을 어떻게 정의할 것인가",
       body:
-        "동탄2 북부는 여울공원과 청계중앙공원을 함께 보아야 효과가 잡히고 여울공원만이면 부호가 바뀐다. 동탄1은 진출입로의 정의에 결과가 민감하다. 대표공원과 진출입로의 지정은 연구자의 판단으로 남는다.",
+        "동탄2 북부는 여울공원과 청계중앙공원을 함께 보아야 효과가 잡히고 여울공원만이면 유의하지 않다. 동탄1은 진출입로의 정의에 결과가 민감하다. 대표공원과 진출입로의 지정은 연구자의 판단으로 남는다.",
     },
     {
       q: "광교의 매개 결과는 무엇 때문인가",
@@ -481,9 +482,9 @@ export const parkCapSources = [
   {
     kind: "현장",
     name: "진출입로 현장 조사 · 지정",
-    org: "직접 조사 · 2026-10-04",
+    org: "직접 조사 · 2026-10-04 · 10-05",
     detail:
-      "동탄센트럴파크는 주말 낮 12시에 공원을 걸으며 진출입로 8곳을 촬영하고 GPS를 기록한 뒤, 중복 2건과 진출입로가 아닌 기록 1건을 빼고 자동 추출 1곳을 더해 6곳으로 확정했다. 청계중앙공원은 보행로가 공원 경계를 넘는 34개 교점 중 방위마다 가장 바깥의 것을 동서남북 한 곳씩 지정했다.",
+      "동탄센트럴파크는 주말 낮 12시에 공원을 걸으며 진출입로 8곳을 촬영하고 GPS를 기록한 뒤, 중복 2건과 진출입로가 아닌 기록 1건을 빼고 자동 추출 1곳을 더해 6곳으로 확정했다. 청계중앙공원은 2026-10-05 저녁 북측·남측·남측 좌측·서측 입구 4곳을 촬영하고 GPS를 기록했다(위치 정확도 4~9m). 현장 기록이 없는 동탄여울공원은 자동 추출 점 중 동서남북 가장 바깥의 4곳만 남겨 점 수를 맞췄다.",
   },
   {
     kind: "보조",
@@ -523,7 +524,7 @@ export const parkCapMethodology = [
   {
     title: "구역 더미는 쓰지 않았다",
     body:
-      "동탄2 북부를 경부고속도로·동탄순환대로로 가르는 구역 더미를 검토했으나, 경계를 어디에 긋느냐가 임의적일 수 있어 본 사양에서 뺐다. 더미를 넣어도 공원 계수는 −0.049~−0.062로 유의해 결론이 같다(표 8).",
+      "동탄2 북부를 경부고속도로·동탄순환대로로 가르는 구역 더미를 검토했으나, 경계를 어디에 긋느냐가 임의적일 수 있어 본 사양에서 뺐다. 더미를 넣으면 공원 계수가 −0.034~−0.039로 약해지므로, 북부의 결과는 이 처리에 민감하다는 점을 함께 보고한다(표 8).",
   },
   {
     title: "함수형은 이중로그를 공통으로 쓴다",
@@ -544,7 +545,7 @@ export const parkCapLimits = [
   },
   {
     tag: "대표공원 정의",
-    text: "공원 결정경계 자료에 이름 필드가 비어 있어 최종 지정은 연구자가 지명으로 했다. 동탄2 북부는 청계중앙공원을 대표공원에 넣느냐에 결과의 부호가 갈리고(여울공원만 +0.045), 동탄1은 진출입로를 어디로 보느냐에 크기가 갈린다. 다섯 공원 중 동탄센트럴파크만 현장에서 진출입로를 확정했다.",
+    text: "공원 결정경계 자료에 이름 필드가 비어 있어 최종 지정은 연구자가 지명으로 했다. 동탄2 북부는 청계중앙공원을 대표공원에 넣느냐에 결과가 갈리고(여울공원만 +0.026, 비유의), 동탄1은 진출입로를 어디로 보느냐에 크기가 갈린다. 진출입로를 현장에서 확정한 곳은 동탄센트럴파크와 청계중앙공원 두 곳뿐이다.",
   },
   {
     tag: "시장 단층",

diff --git a/components/reports/park-capitalization.tsx b/components/reports/park-capitalization.tsx
@@ -103,6 +103,7 @@ function Table({ spec }: { spec: StatTable }) {
                     className={`border-b border-border px-4 py-2.5 text-[0.72rem] font-semibold text-muted-foreground ${
                       i === 0 ? "text-left" : "text-right"
                     }`}
+                    style={i === 0 && spec.labelWidth ? { minWidth: spec.labelWidth } : undefined}
                   >
                     {h}
                   </th>
@@ -121,7 +122,8 @@ function Table({ spec }: { spec: StatTable }) {
                       row.strong || row.fit
                         ? "font-semibold text-foreground"
                         : "text-muted-foreground"
-                    }`}
+                    } ${spec.labelWidth ? "whitespace-nowrap" : ""}`}
+                    style={spec.labelWidth ? { minWidth: spec.labelWidth } : undefined}
                   >
                     {row.label}
                   </th>
@@ -355,7 +357,7 @@ export function ParkCapitalizationReport() {
           진할수록 점포가 몰려 있다. 분석 범위(택지지구와 공원 링) 밖은 흐리게 덮고, 상권과 학교는 범위
           안의 것만 그렸다. 동탄2 남부는 상권 덩어리가 대표공원에 붙어 있어 공원 거리가 상권 지수를
           설명하는 a경로가 뚜렷하다(부분 R² 0.479). 동탄2 북부는 상권이 공원과 무관하게 동탄역을 따라
-          깔려 있다(0.022). 갈색 점은 지하철역, 자홍 점은 대표공원 진출입로, 주황 삼각형은 초등학교다.
+          깔려 있다(0.003). 갈색 점은 지하철역, 자홍 점은 대표공원 진출입로, 주황 삼각형은 초등학교다.
           동탄2 북부의 보라색 점선은 동탄순환대로 — 상권 덩어리가 공원이 아니라 역에 붙어 있는 것이 보인다.
         </p>
         <MapLightbox maps={parkCapHexMaps} />
@@ -384,7 +386,7 @@ export function ParkCapitalizationReport() {
       <Table spec={parkCapSemTable} />
       <div className="mt-5 rounded border border-border border-l-[3px] border-l-accent bg-muted/40 px-4 py-3.5 text-[0.88rem] leading-relaxed">
         <strong>공간모형을 거쳐도 결과는 그대로다.</strong> λ는 어디서도 유의하지 않고, 공원 계수는
-        남부 −0.063, 북부 −0.060, 광교 −0.085, 일월 −0.092로 OLS와 거의 같으며 모두 1% 수준이다.{" "}
+        남부 −0.063, 북부 −0.057, 광교 −0.085, 일월 −0.092로 OLS와 거의 같으며 모두 1% 수준이다.{" "}
         <em className="not-italic text-accent">이전 판에서 북부·일월에 남던 자기상관은 대표공원 정의와 표본 범위를 바로잡자 사라졌다.</em>
       </div>
 
@@ -395,9 +397,9 @@ export function ParkCapitalizationReport() {
       </p>
       <Table spec={parkCapNorthTable} />
       <p className="mt-3 max-w-3xl text-[0.88rem] leading-relaxed text-muted-foreground">
-        구역 더미는 넣든 빼든 공원 계수를 −0.049~−0.062 안에 두어 결론을 바꾸지 않는다. 경계를
-        긋는 방식이 임의적일 수 있어 본 사양에는 넣지 않았다. 결과를 가르는 것은 대표공원의 정의다 —
-        여울공원만 쓰면 +0.045로 부호가 바뀐다.
+        구역 더미를 넣으면 공원 계수가 −0.034~−0.039로 줄고 유의성이 10% 수준 이하로 약해진다.
+        경계를 긋는 방식이 임의적일 수 있어 본 사양에는 넣지 않았지만, 북부의 결과는 이 처리와 대표공원의
+        정의에 함께 민감하다 — 여울공원만 쓰면 +0.026으로 유의하지 않다.
       </p>
 
       <p className="mt-6 max-w-3xl text-[0.92rem] leading-relaxed">
@@ -417,7 +419,7 @@ export function ParkCapitalizationReport() {
       <Table spec={parkCapSignalTable} />
       <div className="mt-5 rounded border border-border border-l-[3px] border-l-accent bg-muted/40 px-4 py-3.5 text-[0.88rem] leading-relaxed">
         <strong>정의에 가장 민감한 곳은 동탄2 북부와 동탄1이다.</strong> 북부는 대표공원에 청계중앙공원을
-        넣느냐에 부호가 갈리고, 동탄1은 경계 대신 진출입로로 재야 효과가 드러난다. 일월은 반대로 통제 전
+        넣느냐와 구역 처리에 유의성이 갈리고, 동탄1은 경계 대신 진출입로로 재야 효과가 드러난다. 일월은 반대로 통제 전
         상관이 거의 없고(+0.10) 건축연령을 통제해야 계수가 드러난다.{" "}
         <em className="not-italic text-accent">공원 효과는 무엇을 대표공원으로, 어디를 입구로 보느냐는 측정의 정의 위에 서 있다.</em>
       </div>
